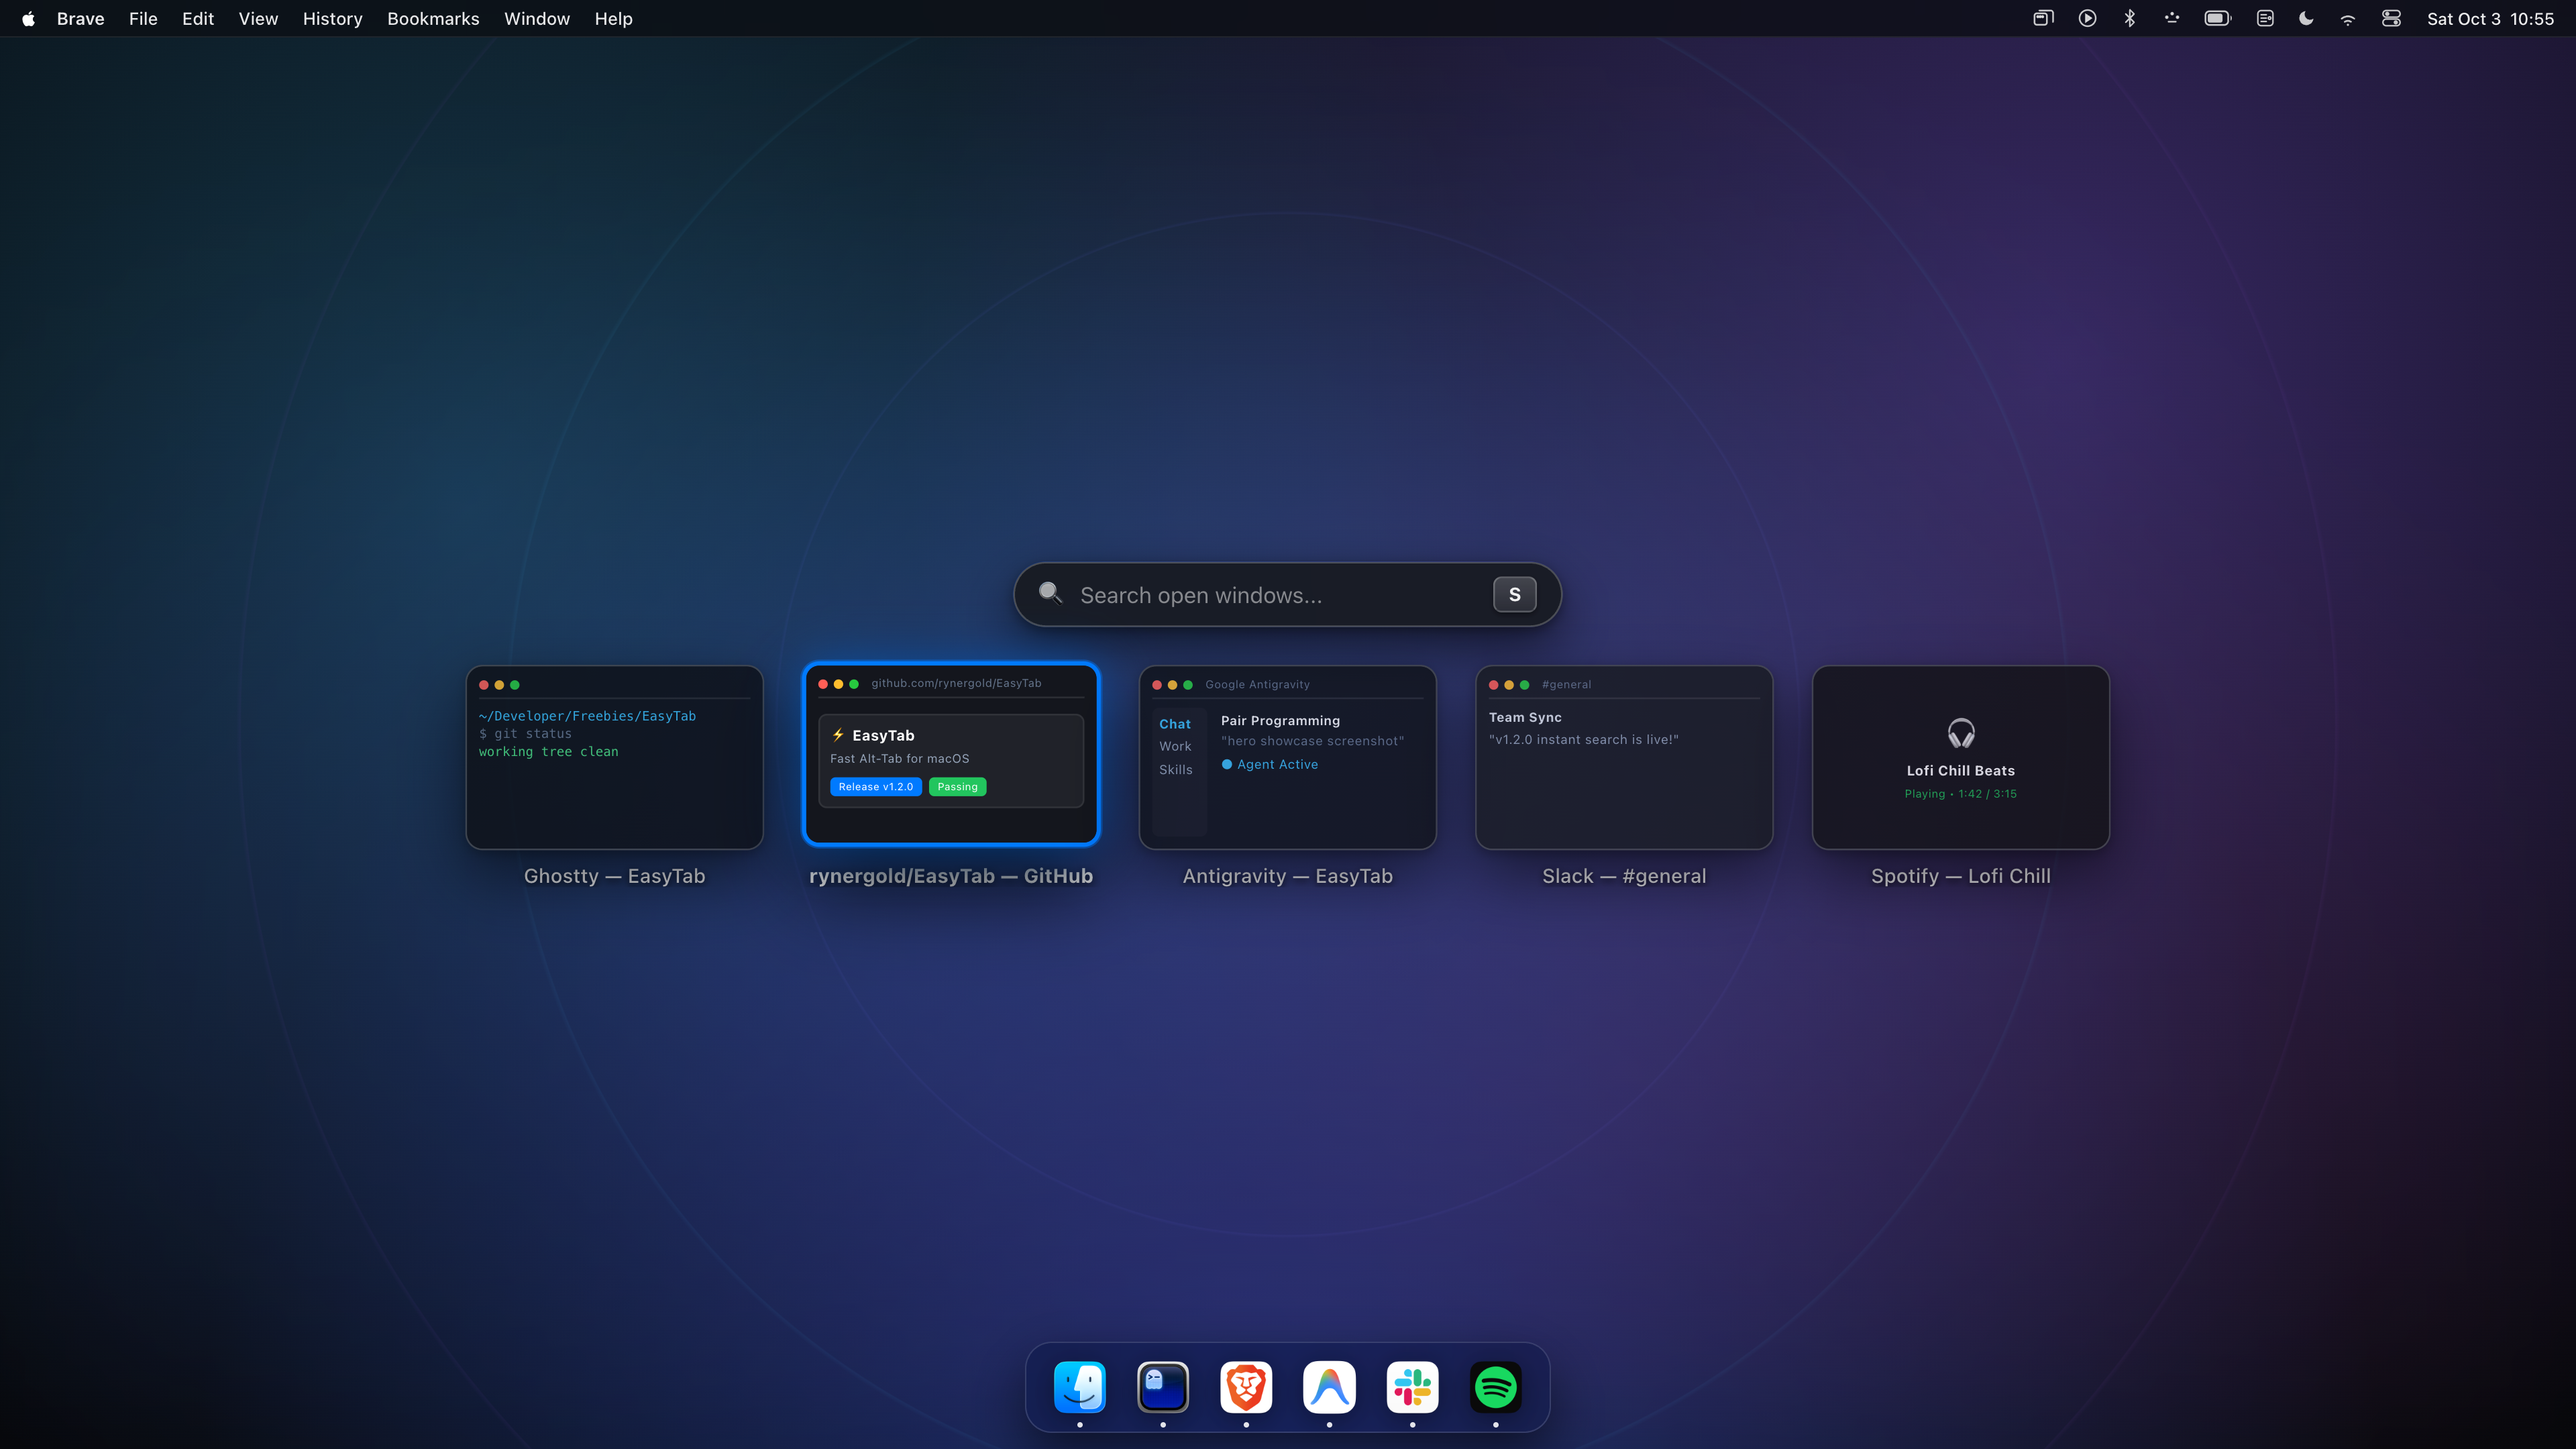
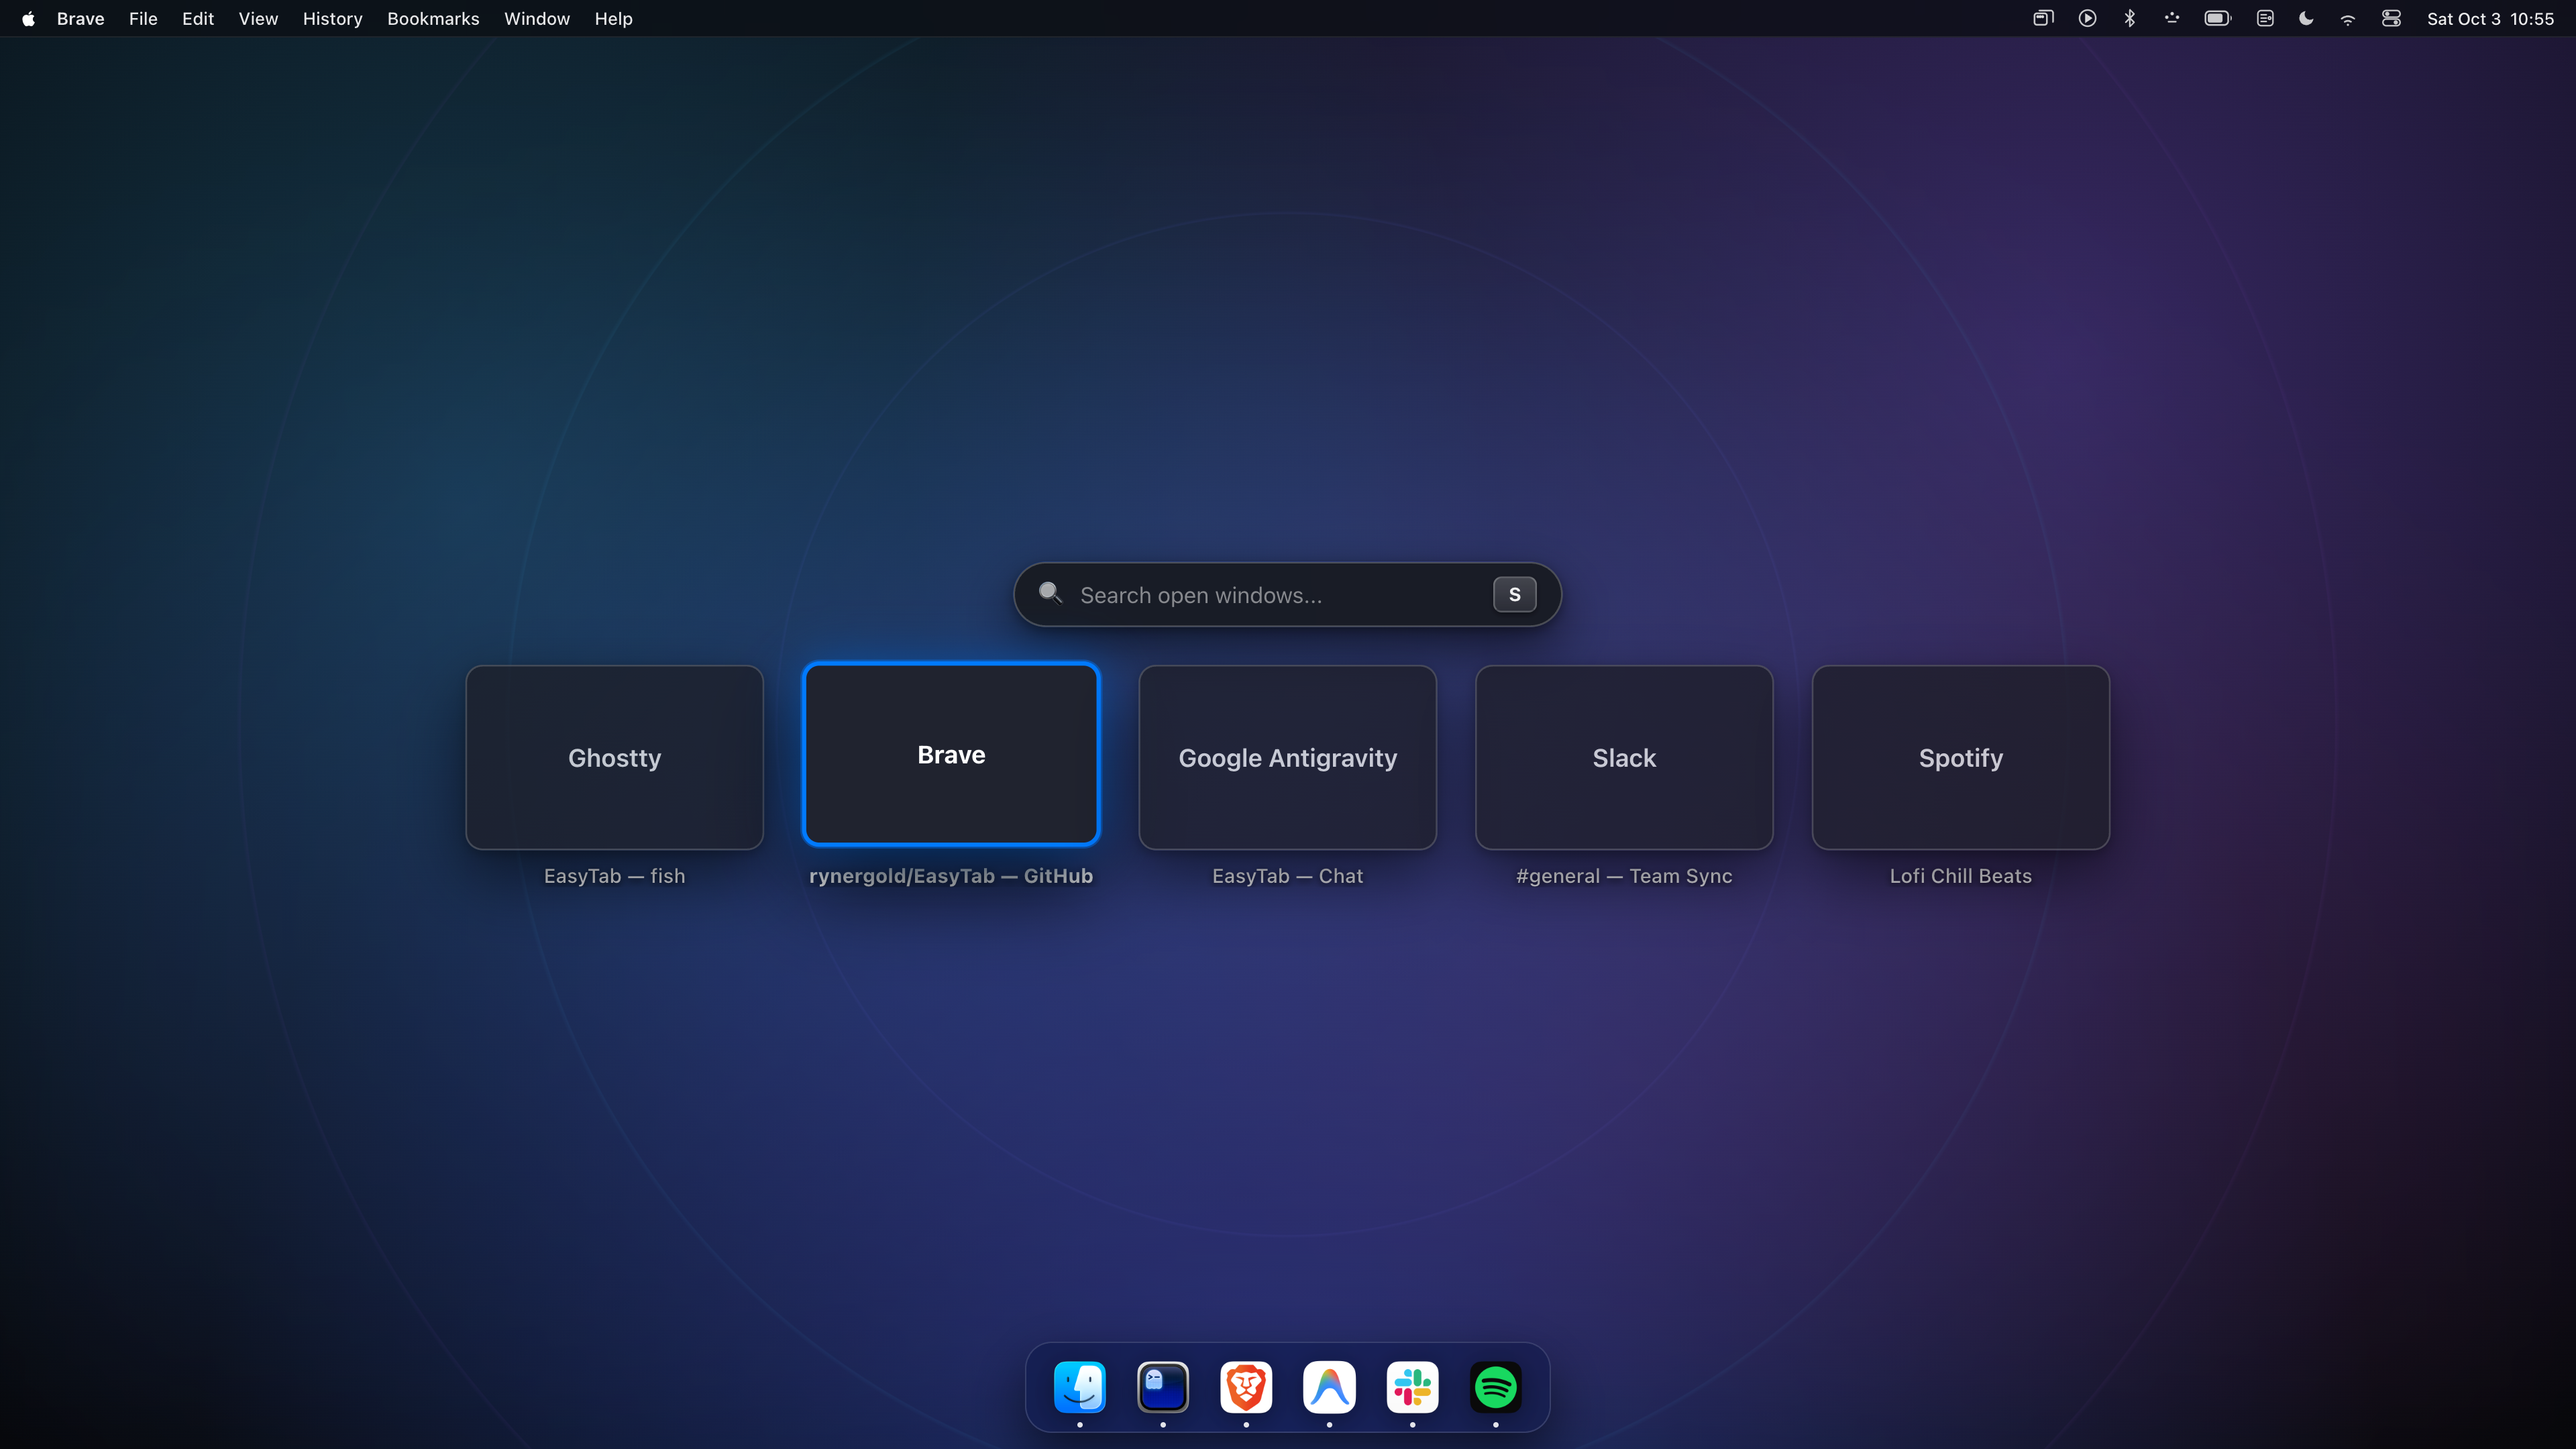
docs: simplify hero showcase cards to app names only matching native EasyTab design

diff --git a/scripts/generate_hero_screenshot.html b/scripts/generate_hero_screenshot.html
@@ -193,25 +193,46 @@
     width: 174px;
     height: 108px;
     border-radius: 10px;
-    background: #181b22;
-    border: 1px solid rgba(255, 255, 255, 0.20);
+    background: rgba(28, 30, 38, 0.95);
+    border: 1px solid rgba(255, 255, 255, 0.22);
     box-shadow: 
       0 16px 38px rgba(0, 0, 0, 0.70), 
       0 2px 6px rgba(0, 0, 0, 0.35);
     overflow: hidden;
     position: relative;
     opacity: 0.80;
+    display: flex;
+    align-items: center;
+    justify-content: center;
+  }
+
+  .card-app-name {
+    font-size: 14.5px;
+    font-weight: 600;
+    color: rgba(255, 255, 255, 0.92);
+    text-align: center;
+    padding: 0 12px;
+    white-space: nowrap;
+    overflow: hidden;
+    text-overflow: ellipsis;
+    letter-spacing: -0.1px;
   }
 
   /* SELECTED CARD: macOS Accent Border & Glow */
   .window-card.selected .card-thumbnail-box {
     border: 2.5px solid #007aff;
     opacity: 1.0;
+    background: rgba(32, 35, 46, 0.98);
     box-shadow: 
       0 0 0 1px rgba(0, 122, 255, 0.4),
       0 0 28px rgba(0, 122, 255, 0.50),
       0 22px 48px rgba(0, 0, 0, 0.85);
     transform: translateY(-2px);
+  }
+
+  .window-card.selected .card-app-name {
+    color: #ffffff;
+    font-weight: 700;
   }
 
   .card-title {
@@ -233,103 +254,7 @@
     text-shadow: 0 1px 6px rgba(0, 0, 0, 1);
   }
 
-  /* Mini Renderings Inside Thumbnails */
-  .mini-window-content {
-    width: 100%;
-    height: 100%;
-    display: flex;
-    flex-direction: column;
-    font-size: 7.5px;
-    line-height: 1.35;
-    padding: 7px;
-    overflow: hidden;
-  }
 
-  .mini-titlebar {
-    height: 12px;
-    display: flex;
-    align-items: center;
-    gap: 3.5px;
-    margin-bottom: 5px;
-    border-bottom: 1px solid rgba(255, 255, 255, 0.10);
-    padding-bottom: 4px;
-  }
-
-  .mini-dot {
-    width: 5.5px;
-    height: 5.5px;
-    border-radius: 50%;
-  }
-
-  .dot-red { background: #ff5f56; }
-  .dot-yellow { background: #ffbd2e; }
-  .dot-green { background: #27c93f; }
-
-  .mini-terminal {
-    background: #0d0f14;
-    color: #38bdf8;
-    font-family: monospace;
-    padding: 7px;
-  }
-
-  .mini-browser {
-    background: #14161d;
-    color: #cbd5e1;
-  }
-
-  .mini-browser-hero {
-    margin-top: 4px;
-    padding: 6px;
-    background: rgba(255, 255, 255, 0.05);
-    border-radius: 5px;
-    border: 1px solid rgba(255, 255, 255, 0.08);
-    display: flex;
-    flex-direction: column;
-    gap: 3px;
-  }
-
-  .mini-antigravity {
-    background: #0f1117;
-    color: #cbd5e1;
-  }
-
-  .mini-ag-sidebar {
-    display: flex;
-    gap: 4px;
-    height: 100%;
-  }
-
-  .mini-ag-left {
-    width: 32px;
-    background: rgba(255, 255, 255, 0.03);
-    border-radius: 4px;
-    padding: 4px;
-    display: flex;
-    flex-direction: column;
-    gap: 3px;
-  }
-
-  .mini-ag-main {
-    flex: 1;
-    padding: 2px 4px;
-  }
-
-  .mini-slack {
-    background: #181a1f;
-    color: #d1d2d3;
-    padding: 7px;
-  }
-
-  .mini-spotify {
-    background: #121214;
-    color: #1db954;
-    padding: 7px;
-    display: flex;
-    flex-direction: column;
-    justify-content: center;
-    align-items: center;
-    gap: 4px;
-  }
 
   /* ========================================================= */
   /* macOS Dock with REAL HIGH-RESOLUTION APP ICONS            */
@@ -499,39 +424,15 @@
       <!-- Card 1: Ghostty (Unselected) -->
       <div class="window-card">
         <div class="card-thumbnail-box">
-          <div class="mini-window-content mini-terminal">
-            <div class="mini-titlebar">
-              <div class="mini-dot dot-red"></div>
-              <div class="mini-dot dot-yellow"></div>
-              <div class="mini-dot dot-green"></div>
-            </div>
-            <div>~/Developer/Freebies/EasyTab</div>
-            <div style="color: #64748b;">$ git status</div>
-            <div style="color: #4ade80;">working tree clean</div>
-          </div>
+          <div class="card-app-name">Ghostty</div>
         </div>
-        <div class="card-title">Ghostty — EasyTab</div>
+        <div class="card-title">EasyTab — fish</div>
       </div>
 
       <!-- Card 2: Brave Browser (SELECTED) -->
       <div class="window-card selected">
         <div class="card-thumbnail-box">
-          <div class="mini-window-content mini-browser">
-            <div class="mini-titlebar">
-              <div class="mini-dot dot-red"></div>
-              <div class="mini-dot dot-yellow"></div>
-              <div class="mini-dot dot-green"></div>
-              <span style="color: #64748b; margin-left: 4px; font-size: 6.5px;">github.com/rynergold/EasyTab</span>
-            </div>
-            <div class="mini-browser-hero">
-              <span style="font-weight: 700; color: #fff; font-size: 8.5px;">⚡ EasyTab</span>
-              <span style="font-size: 7px; color: #94a3b8;">Fast Alt-Tab for macOS</span>
-              <div style="display: flex; gap: 4px; margin-top: 3px;">
-                <span style="background: #007aff; color: #fff; padding: 1.5px 5px; border-radius: 3px; font-size: 6px;">Release v1.2.0</span>
-                <span style="background: #22c55e; color: #fff; padding: 1.5px 5px; border-radius: 3px; font-size: 6px;">Passing</span>
-              </div>
-            </div>
-          </div>
+          <div class="card-app-name">Brave</div>
         </div>
         <div class="card-title">rynergold/EasyTab — GitHub</div>
       </div>
@@ -539,57 +440,25 @@
       <!-- Card 3: Google Antigravity (Unselected) -->
       <div class="window-card">
         <div class="card-thumbnail-box">
-          <div class="mini-window-content mini-antigravity">
-            <div class="mini-titlebar">
-              <div class="mini-dot dot-red"></div>
-              <div class="mini-dot dot-yellow"></div>
-              <div class="mini-dot dot-green"></div>
-              <span style="color: #64748b; margin-left: 4px; font-size: 6.5px;">Google Antigravity</span>
-            </div>
-            <div class="mini-ag-sidebar">
-              <div class="mini-ag-left">
-                <span style="color: #38bdf8; font-weight: 700;">Chat</span>
-                <span style="color: #94a3b8;">Work</span>
-                <span style="color: #94a3b8;">Skills</span>
-              </div>
-              <div class="mini-ag-main">
-                <div style="color: #fff; font-weight: 600;">Pair Programming</div>
-                <div style="color: #64748b; margin-top: 2px;">"hero showcase screenshot"</div>
-                <div style="color: #38bdf8; margin-top: 3px;">● Agent Active</div>
-              </div>
-            </div>
-          </div>
+          <div class="card-app-name">Google Antigravity</div>
         </div>
-        <div class="card-title">Antigravity — EasyTab</div>
+        <div class="card-title">EasyTab — Chat</div>
       </div>
 
       <!-- Card 4: Slack (Unselected) -->
       <div class="window-card">
         <div class="card-thumbnail-box">
-          <div class="mini-window-content mini-slack">
-            <div class="mini-titlebar">
-              <div class="mini-dot dot-red"></div>
-              <div class="mini-dot dot-yellow"></div>
-              <div class="mini-dot dot-green"></div>
-              <span style="color: #64748b; margin-left: 4px; font-size: 6.5px;">#general</span>
-            </div>
-            <div style="font-weight: 700; color: #e2e8f0; font-size: 7.5px;">Team Sync</div>
-            <div style="color: #94a3b8; margin-top: 3px;">"v1.2.0 instant search is live!"</div>
-          </div>
+          <div class="card-app-name">Slack</div>
         </div>
-        <div class="card-title">Slack — #general</div>
+        <div class="card-title">#general — Team Sync</div>
       </div>
 
       <!-- Card 5: Spotify (Unselected) -->
       <div class="window-card">
         <div class="card-thumbnail-box">
-          <div class="mini-window-content mini-spotify">
-            <div style="font-size: 18px;">🎧</div>
-            <div style="font-size: 8px; font-weight: 700; color: #fff;">Lofi Chill Beats</div>
-            <div style="font-size: 6.5px; color: #1db954;">Playing • 1:42 / 3:15</div>
-          </div>
+          <div class="card-app-name">Spotify</div>
         </div>
-        <div class="card-title">Spotify — Lofi Chill</div>
+        <div class="card-title">Lofi Chill Beats</div>
       </div>
 
     </div>
